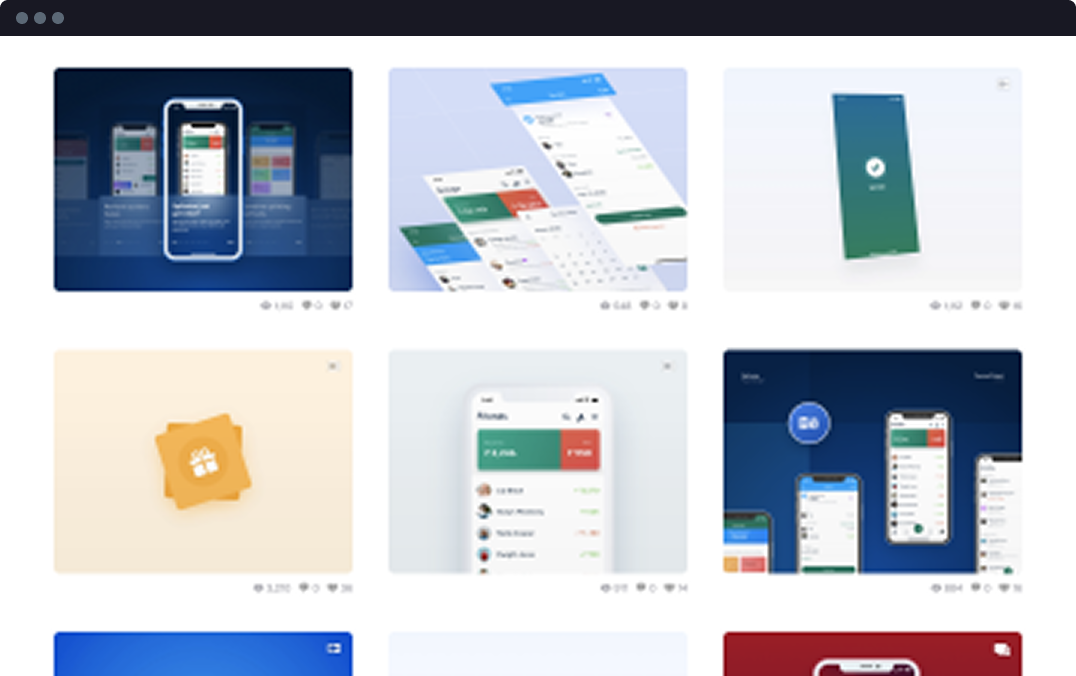
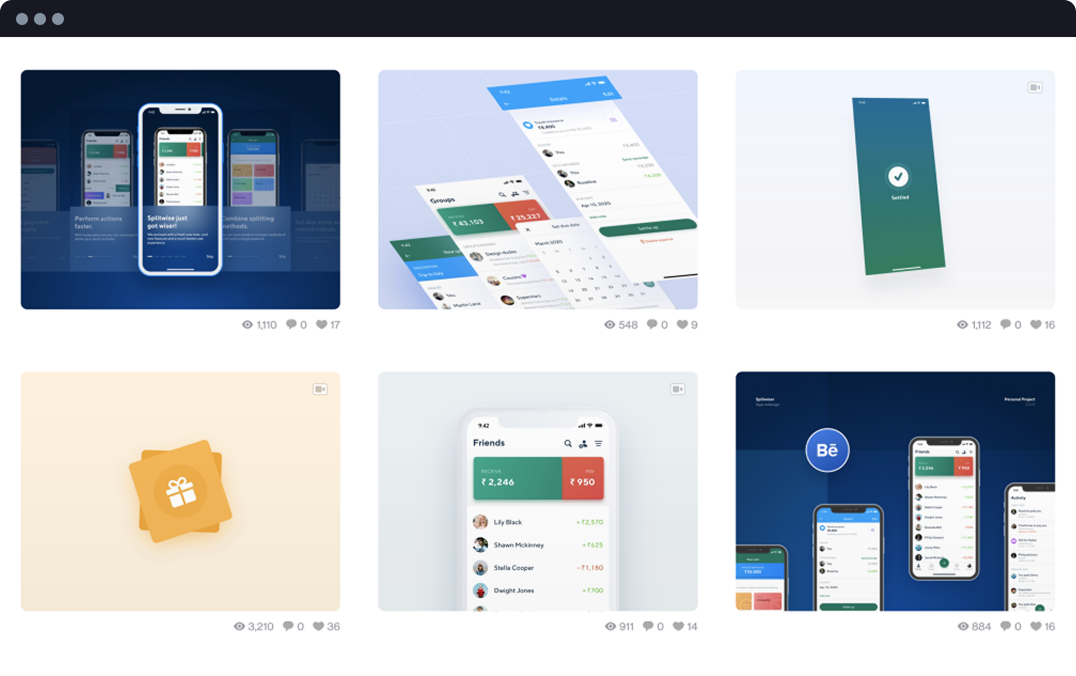
feat: created dribbble and about section

diff --git a/index.html b/index.html
@@ -5,22 +5,28 @@
   <meta charset="UTF-8" />
   <link rel="icon" type="image/svg+xml" href="/vite.svg" />
   <meta name="viewport" content="width=device-width, initial-scale=1.0" />
-  <link rel="stylesheet" href="https://cdn.jsdelivr.net/npm/swiper@12/swiper-bundle.min.css" />  
+  <link rel="stylesheet" href="https://cdn.jsdelivr.net/npm/swiper@12/swiper-bundle.min.css" />
   <link href="/src/style.css" rel="stylesheet">
-  
+
   <title>LemonSchool</title>
 </head>
 
 <body class="bg-stone">
   {{> header logo='/public/logo.svg'}}
   {{> page-title title="LemonSchool" subtitle="subtitle" }}
-  <button type="button" data-triger="modal-login" class="px-8 py-3 bg-amber-400 hover:bg-amber-600 cursor-pointer">modal-login</button>
-  <button type="button" data-triger="modal-register" class="px-8 py-3 bg-amber-400 hover:bg-amber-600 cursor-pointer">modal-register</button>
-  <button type="button" data-triger="modal-1" class="px-8 py-3 bg-amber-400 hover:bg-amber-600 cursor-pointer">modal-1</button>
-  <button type="button" data-triger="modal-2" class="px-8 py-3 bg-amber-400 hover:bg-amber-600 cursor-pointer">modal-2</button>
-  <button type="button" data-triger="modal-3" class="px-8 py-3 bg-amber-400 hover:bg-amber-600 cursor-pointer">modal-3</button>
-  <button type="button" data-triger="modal-4" class="px-8 py-3 bg-amber-400 hover:bg-amber-600 cursor-pointer">modal-4</button>
-  
+  <button type="button" data-triger="modal-login"
+    class="px-8 py-3 bg-amber-400 hover:bg-amber-600 cursor-pointer">modal-login</button>
+  <button type="button" data-triger="modal-register"
+    class="px-8 py-3 bg-amber-400 hover:bg-amber-600 cursor-pointer">modal-register</button>
+  <button type="button" data-triger="modal-1"
+    class="px-8 py-3 bg-amber-400 hover:bg-amber-600 cursor-pointer">modal-1</button>
+  <button type="button" data-triger="modal-2"
+    class="px-8 py-3 bg-amber-400 hover:bg-amber-600 cursor-pointer">modal-2</button>
+  <button type="button" data-triger="modal-3"
+    class="px-8 py-3 bg-amber-400 hover:bg-amber-600 cursor-pointer">modal-3</button>
+  <button type="button" data-triger="modal-4"
+    class="px-8 py-3 bg-amber-400 hover:bg-amber-600 cursor-pointer">modal-4</button>
+
   <div class="bg-black">
     <div class="mx-auto px-3 max-w-7xl font-sen bg-black">
       {{> header-porfolio}}
@@ -37,12 +43,12 @@
       alt='philosophy'
       bg-color="bg-amber-100"
       }}
-    
+
 
       {{> skillset}}
       {{> partners}}
       {{> projects}}
-    
+
       {{> content-template
       title='Instagram'
       description='If you area a person who enjoys photography, then I highly recommend that you check out my Instagram.
@@ -52,37 +58,16 @@
       alt='instagram'
       bg-color="bg-pink-100"
       }}
+      {{> dribbble}}
+      {{> about}}
       {{> tabs}}
-      <p>Lorem ipsum dolor sit amet, consectetur adipisicing elit. Ipsa laboriosam obcaecati magni, reiciendis
-        voluptatum aut magnam aspernatur quasi dolorum adipisci sapiente. Doloremque iste voluptatum rerum saepe
-        accusantium. Saepe, blanditiis. Accusamus placeat itaque odio corrupti, velit in cumque, sint suscipit aliquid
-        delectus tenetur non eius mollitia modi ab adipisci expedita maiores perferendis a autem. Deleniti reiciendis
-        voluptatum accusantium architecto quis saepe quasi inventore adipisci, harum suscipit aperiam maxime, quam
-        laborum libero ex sed eos corporis commodi, perferendis dignissimos? Ipsa deserunt itaque et sit. Ab laudantium
-        reiciendis aliquam dolore sit a consequuntur aperiam quia, corrupti cum quasi cupiditate distinctio, enim aut
-        accusantium!</p>
-      <p>Lorem ipsum dolor sit amet, consectetur adipisicing elit. Ipsa laboriosam obcaecati magni, reiciendis
-        voluptatum aut magnam aspernatur quasi dolorum adipisci sapiente. Doloremque iste voluptatum rerum saepe
-        accusantium. Saepe, blanditiis. Accusamus placeat itaque odio corrupti, velit in cumque, sint suscipit aliquid
-        delectus tenetur non eius mollitia modi ab adipisci expedita maiores perferendis a autem. Deleniti reiciendis
-        voluptatum accusantium architecto quis saepe quasi inventore adipisci, harum suscipit aperiam maxime, quam
-        laborum libero ex sed eos corporis commodi, perferendis dignissimos? Ipsa deserunt itaque et sit. Ab laudantium
-        reiciendis aliquam dolore sit a consequuntur aperiam quia, corrupti cum quasi cupiditate distinctio, enim aut
-        accusantium!</p>
-      <p>Lorem ipsum dolor sit amet, consectetur adipisicing elit. Ipsa laboriosam obcaecati magni, reiciendis
-        voluptatum aut magnam aspernatur quasi dolorum adipisci sapiente. Doloremque iste voluptatum rerum saepe
-        accusantium. Saepe, blanditiis. Accusamus placeat itaque odio corrupti, velit in cumque, sint suscipit aliquid
-        delectus tenetur non eius mollitia modi ab adipisci expedita maiores perferendis a autem. Deleniti reiciendis
-        voluptatum accusantium architecto quis saepe quasi inventore adipisci, harum suscipit aperiam maxime, quam
-        laborum libero ex sed eos corporis commodi, perferendis dignissimos? Ipsa deserunt itaque et sit. Ab laudantium
-        reiciendis aliquam dolore sit a consequuntur aperiam quia, corrupti cum quasi cupiditate distinctio, enim aut
-        accusantium!</p>
+
     </div>
   </div>
 
   {{> footer }}
   {{> modal }}
-  <script src="https://cdn.jsdelivr.net/npm/swiper@12/swiper-bundle.min.js"></script> 
+  <script src="https://cdn.jsdelivr.net/npm/swiper@12/swiper-bundle.min.js"></script>
   <script src="/src/modal.js"></script>
   <script src="/src/main.js"></script>
 </body>

diff --git a/src/partials/about.html b/src/partials/about.html
@@ -1,0 +1,42 @@
+<section class="py-12 md:py-20 lg:py-30">
+    <div class="max-w-5xl px-3 mx-auto mb-12 md:mb-20 lg:mb-30  grid md:grid-cols-2 items-start gap-6">
+        <div>
+            <h2 class="text-3xl md:text-5xl font-bold mb-6 eading-[1.2]">This is what people say about me</h2>
+            <p class="text-lg text-gray-500 eading-[1.5] max-w-147 mb-10">Here are a few lines from people who I have
+                worked with over the past 8+ years in my design career.</p>
+            <a href="#" class="text-white mt-auto eading-[1.75] border-b pb-1 border-gray-500">See all testimonials</a>
+        </div>
+        <div class="grid gap-y-12 md:gap-y-30">
+            <a href="#" class="block group">
+                <div class="overflow-hidden">
+                    <img src="blog-1.png" class="group-hover:scale-125 duration-1000" alt="blog-1">
+                </div>
+                <span class="block border border-gray-600 p-8 lg:p-16">
+                    <span class="block text-h5 mb-16 font-bold">‘’Robin is one of the best designers I have worked with in my entire life. He is a designer who is very capable of taking up complex projects and delivers impeccable design.’’</span>
+                    <span class="block text-lg text-gray-600 font-bold mb-1">Richard Owens</span>
+                    <span class="block text-lg text-gray-600">CEO, Company 1</span>
+                </span>
+            </a>
+            <a href="#" class="block group">
+                <div class="overflow-hidden">
+                    <img src="blog-2.png" class="group-hover:scale-125 duration-1000" alt="blog-2">
+                </div>
+                <span class="block border border-gray-600 p-8 lg:p-16">
+                    <span class="block text-h5 mb-16 font-bold">‘’I think Robin has an incredible gift. It has been an absolute pleasure to work with a designer of this caliber.’’</span>
+                    <span class="block text-lg text-gray-600 font-bold mb-1">Emily Parker</span>
+                    <span class="block text-lg text-gray-600">CEO, Company 2</span>
+                </span>
+            </a>
+            <a href="#" class="block group">
+                <div class="overflow-hidden">
+                    <img src="blog-3.png" class="group-hover:scale-125 duration-1000" alt="blog-3">
+                </div>
+                <span class="block border border-gray-600 p-8 lg:p-16">
+                    <span class="block text-h5 mb-16 font-bold">‘’All I can say that, Robin is a phenomenal designer. The wavelength at which he thinks is astoundaing. I love the focus, passion and attention to detial in the design.’’</span>
+                    <span class="block text-lg text-gray-600 font-bold mb-1">Vincent  Rudd</span>
+                    <span class="block text-lg text-gray-600">CEO, Company 3</span>
+                </span>
+            </a>
+        </div>
+    </div>
+</section>

diff --git a/src/partials/dribbble.html b/src/partials/dribbble.html
@@ -1,0 +1,19 @@
+<section class="py-16 md:py-20 lg:py-30">
+    <div class="max-w-4xl px-5 lg:px-10 mx-auto">
+        <h2 class="text-3xl md:text-5xl font-bold mb-6 eading-[1.2]">Dribbble</h2>
+        <p class="text-lg text-gray-500 eading-[1.5] max-w-147 mb-10">Each dribbble shot is made with love and care. Do
+            check out my work on Dribbble. Likes and comments are appreciated.</p>
+        <a href="#" class="text-white mt-auto eading-[1.75] border-b pb-1 border-gray-500">Follow me on Dribbble</a>
+
+        <img 
+
+        src="dribbble.png"
+        
+        srcset="dribbble-xs.png 320w, dribbble-md.png 688w, dribbble.png 1076w"
+
+        sizes="(max-width: 767px) 320px, (max-width: 1024px) 688px, 1076px"
+        
+        class="mt-30" 
+        
+        alt="dribbble" />
+</section>

diff --git a/src/partials/tabs.html b/src/partials/tabs.html
@@ -1,7 +1,7 @@
 <section>
     <div class="max-w-5xl px-3 mx-auto">
         <h2 class="text-3xl md:text-5xl font-bold mb-6 eading-[1.2]">Photography</h2>
-        <p class="text-lg eading-[1.5] mb-24">Here is a collection of my best travel pictures that I took while travelling places all around the world. </p>
+        <p class="text-lg eading-[1.5] mb-24 text-gray-500 max-w-147">Here is a collection of my best travel pictures that I took while travelling places all around the world. </p>
         <div id="tabs" class="tabs">
             <nav id="tabs-nav" class="mb-12">
                 <button data-tab-content="content-1" class="px-4 py-2 bg-purple border border-purple cursor-pointer hover:bg-purple">ITALY</button>

diff --git a/src/style.css b/src/style.css
@@ -35,7 +35,7 @@
     --font-nunito-sans: "Nunito Sans", sans-serif;
     --font-amarante: "Amarante", serif;
     --font-sen: "Sen", sans-serif;
-
+    --container-4xl: 1136px;
     --container-5xl: 1320px;
     --container-7xl: 1464px;
     

diff --git a/src/main.js b/src/main.js
@@ -75,3 +75,6 @@ window.addEventListener('load', () => {
     document.querySelectorAll('.tabs').length ? installTabs() : null;
     document.querySelectorAll('img').length ? getLoremImage() : null;
 })
+
+
+ 
